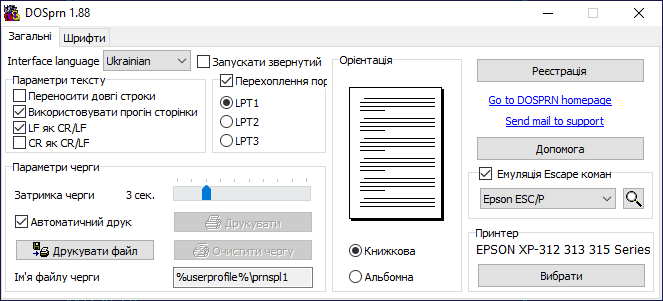
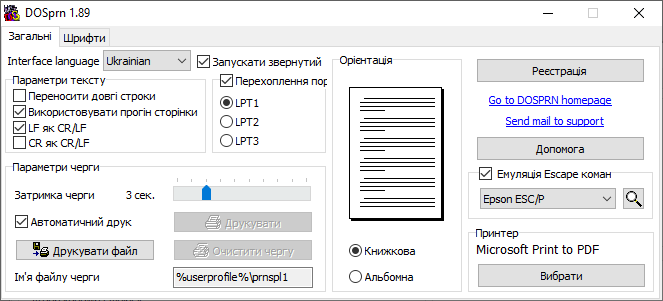
1.89

Changed region(s): [[0.0, 0.0, 1.0, 1.0]]

diff --git a/readme.htm b/readme.htm
@@ -1,5 +1,5 @@
 <!DOCTYPE HTML PUBLIC "-//W3C//DTD HTML 4.0 Transitional//EN">
-<HTML><HEAD><TITLE>DOSPRN 1.88 документація</TITLE>
+<HTML><HEAD><TITLE>DOSPRN 1.89 документація</TITLE>
 <META http-equiv=Content-Type content="text/html; charset=utf-8">
 <META http-equiv=Content-Language content=en-us>
 <META name=Keywords  content="DOS, printers, program, print, printer, USB, programs, LPT, DOS program, software, national, language, internanional" >
@@ -23,7 +23,7 @@
     <TD width="100%">      <table border="0" cellspacing="0" cellpadding="0">
         <tr>
           <td width="50"><IMG src="images/logo.gif" ALT="Print from DOS on printers under Windows98, WinXP, Windows2000" width="42" height="39"></td>
-          <td width="281"><font size="5"><b>DOSPRN 1.88</b></font></td>
+          <td width="281"><font size="5"><b>DOSPRN 1.89</b></font></td>
           <td width="194">      
       <table border="2" bgcolor="#C0C0C0" cellpadding="4" cellspacing="4">
         <tr>
@@ -63,7 +63,7 @@
       ознайомитися з роботою DOSPRN та спробувати її в роботі з вашими програмами для DOS на протязі випробувального періоду. По закінченні цьогу періоду
       ви маєте або зареєструвати вашу копію або видалити її з вашого комп'ютера за допомогою утиліти деінсталяції яка розміщена у головному меню Робочого столу у групі DOSPRN.</P>
       <H3 align=justify>Інсталяція</H3>
-      <P align=justify>Загрузіть та запустіть на виконання само-розпаковуючийся файл <I><a href="https://dosprn.com/DOSprn188.exe">DOSprn188.exe</a></I>. 
+      <P align=justify>Загрузіть та запустіть на виконання само-розпаковуючийся файл <I><a href="https://dosprn.com/DOSprn189.exe">DOSprn189.exe</a></I>. 
       Вам треба буде відповісти на кілька простих питань. Під час інсталяції DOSPRN копіює усі необхідні файли та створює ярлики на вашому комп'ютері.</P>
       <H3 align=justify>Запуск програми</H3>Ви можете стартувати DOSPRN за допомогою ярлика на Робочому Столі або з папки "DOSPRN" 
       у головному меню Windows. Також DOSPRN може стартувати автоматично разом в операційною системою з папки "Автозагрузка" (якщо ви обрали таку можливість під час інсталяції). 
@@ -115,10 +115,7 @@
         <TR>
           <TD width="33%">
             <H4>Перехоплення порту</H4></TD>
-          <TD width="67%">Ця опція доступна зараз <B>тільки у Win95/98/Me</B>. DOSPRN перехоплює усі дані 
-            які DOS-програма надсилає до порту та обробляє їх. Якщо ви маєте <A 
-            href="winnt.htm">WinNT/2000/XP</A>, DOSPRN буде використовувати резидентний драйвер 
-	    <a href="prn2file.htm"><i>prn2file.com</i></a> у dos-сесії.
+          <TD width="67%">DOSPRN перехоплює усі дані які DOS-програма надсилає до порту та обробляє їх.
             <HR>
           </TD></TR>
         <TR>
@@ -144,9 +141,9 @@
             <H4>Ім'я файлу черги</H4></TD>
           <TD width="67%">Ім'я файлу (або маска файлів) які містять тимчасові дані для друку.&nbsp;<br>
             <b><br>
-            Примітка: </b>якщо ви маєте <A href="winnt.htm">WinNT/2000/XP</A> та бажаєте змінити ім'я чи шлях до файлу, 
- 	    необхідно також змінити параметри резидентного драйверу DOS <I>prn2file.com</I> який перехоплює
- 	    дані з DOS-програм та записує їх у тимчасовий файл.            
+            Примітка: </b>якщо ви бажаєте змінити ім'я чи шлях до файлу, 
+ 	    необхідно попередньо відключити опцію автоматичного "Перехоплення порту" яка дозволяє DOSPRN самостійно перехоплювати
+ 	    дані з DOS-програм.
 	    <HR>
           </TD></TR>
         <TR>

diff --git a/news.htm b/news.htm
@@ -1,5 +1,5 @@
 <!DOCTYPE HTML PUBLIC "-//W3C//DTD HTML 4.0 Transitional//EN">
-<HTML><HEAD><TITLE>DOSPRN 1.88 секція новин</TITLE>
+<HTML><HEAD><TITLE>DOSPRN 1.89 секція новин</TITLE>
 <META http-equiv=Content-Language content=en-us>
 <META http-equiv=Content-Type content="text/html; charset=utf-8">
 <META name=Keywords  content="dos print news, dos printer driver, dos printer, dos usb driver, dos print command, DOS, printers, program, print, printer, USB, programs, LPT, DOS program, software, national, language, internanional" >
@@ -56,16 +56,22 @@
   <TR>
     <TD width="100%">
       <H3>What's new</H3>
+      <P><B>Version 1.89</B></P>
+      + додана можливість перехоплювати дані з LPTx під Windows 64bit<br>
+      + додана можливість перехоплювати звіти з нативних програм Windows які надіслані на LPTx<br>
+      + додана тісна інтеграція з DOSBOX-X, DOSBOX, vDos, vDosPlus<br>
+      + додана підтримка віртуальної машини NTVDMx64<br>
+      * виправлення помилок<br>
       <P><B>Version 1.88</B></P>
-      + added Rectangular Area Fill Graphics PCL sequences support<br>
-      * small bugs fixes<br>
+      + додана підримка емуляції Rectangular Area Fill Graphics PCL послідовностей<br>
+      * виправлення помилок<br>
       <P><B>Version 1.87</B></P>
-      + added the ability to create and include <a href="inline-qrcode.htm">QR-code</a> into DOS reports from the text file<br>
-      + added the ability to specify the title of the print job at runtime, this is useful for printing accounting systems<br>
-      + added the ability to specify the name of an output file at runtime, this is useful for silent printing into PDF (for example, with "Microsoft Print to PDF" printer)<br>
-      + new command line option <a href="command-line.htm">&quot;output&quot;</a><br>
-      * now it is possible to scale <a href="inline-graphics.htm">embedded graphics files</a><br>
-      * small bugs fixes<br>
+      + додана можливість створювати <a href="inline-qrcode.htm">QR-коди</a> з текстових файлів та додавати їх до звітів<br>
+      + додана можливість вказувати заголовок завдання під час друку, це може бути корисно для систем автоматичного обліку друку<br>
+      + додана можливість вказувати им'я вихідного файлу під час друку, це може бути корисно для зручного друку у PDF (наприклад, через "Microsoft Print to PDF")<br>
+      + нова опція командної строки <a href="command-line.htm">&quot;output&quot;</a><br>
+      * зараз стало можливим масштабувати <a href="inline-graphics.htm">вбудовані графічні файли</a><br>
+      * виправлення помилок<br>
       <P>
       <P><B>Version 1.86</B></P>
       <P>

diff --git a/faq.htm b/faq.htm
@@ -22,7 +22,7 @@
     <TD width="100%">      <table border="0" cellspacing="0" cellpadding="0">
         <tr>
           <td width="50"><IMG src="images/logo.gif" ALT="Print from DOS on printers under Windows98, WinXP, Windows2000" width="42" height="39"></td>
-          <td width="281"><font size="5"><b>DOSPRN 1.88</b></font></td>
+          <td width="281"><font size="5"><b>DOSPRN 1.89</b></font></td>
           <td width="194">      
       <table border="2" bgcolor="#C0C0C0" cellpadding="4" cellspacing="4">
         <tr>
@@ -80,11 +80,6 @@
           file&quot; option but reports from my DOS program are not captured .
           Why ?</a>
           </h4>
-        <li>
-          <h4><a href="#18">I tested DOSPRN trying to print out files with the &quot;copy filename prn&quot; DOS command. I have come to a conclusion
-          DOSPRN can't process simple DOS commands. </a><a href="#18">Any suggestions
-          please ?</a></h4>
-        </li>
       </ul>
           
         </li>
@@ -239,28 +234,6 @@
           option and set up the &quot;Job filename&quot; properties to match
           your report file names. Don't forget that temporary job file will be removed by DOSPRN
           after printing.
-          </p>
-        <li>
-          <p><a name="18"></a><b>I tested DOSPRN trying to print out files with
-          &quot;copy filename prn&quot; DOS command. I have come to the conclusion
-          that DOSPRN can't process simple DOS commands. Any suggestions please ?<br>
-          <br>
-          </b>I think you have Windows NT/2000/XP operating system. These OS do
-          not have pure DOS. DOS-box is not DOS and NT/2000/XP console commands
-          are not DOS commands.<br>
-          <br>
-          For example, NT/2000/XP use a "copy" command from their 32-bit kernel. Another
-          standard command for file printing (the <b>PRINT</b> command) is not a usual
-          DOS program. This is native Win32 console program (you can
-          find it in the SYSTEM32 directory, open it with any hexadecimal viewer and to<br>
-          be convinced).&nbsp;<br>
-          <br>
-          DOSPRN (namely the dos driver <i><b>PRN2FILE)</b></i> can't capture Win32 kernel output since it
-          can't redirect COPY and PRINT commands.<br>
-          <br>
-          If you want to print pure TXT files I recommend printing them with the
-          command <p><code>copy filename &quot;%USERPROFILE%\prnspl1&quot;</code></p>. In this case your file will get directly into
-          the DOSPRN spool buffer and will be processed immediately.
           </p>
       </ul>
           

diff --git a/index.htm b/index.htm
@@ -1,5 +1,5 @@
 <!DOCTYPE HTML PUBLIC "-//W3C//DTD HTML 4.0 Transitional//EN">
-<HTML><HEAD><TITLE>DOSPRN 1.88. Друкуємо з DOS програм на принтери зумісні з Windows</TITLE>
+<HTML><HEAD><TITLE>DOSPRN 1.89. Друкуємо з DOS програм на принтери зумісні з Windows</TITLE>
 <META http-equiv=Content-Type content="text/html; charset=utf-8">
 <META http-equiv=Content-Language content=en-us>
 <META name=Keywords  content="dos print, printer, printers, DOS, win, windows, win2k, windows2000, program, USB, programs, LPT, DOS program, software, national, language, internanional" >
@@ -22,7 +22,7 @@
       <table border="0" cellspacing="0" cellpadding="0">
         <tr>
           <td width="50"><IMG src="images/logo.gif" ALT="Print from DOS on printers under Windows98, WinXP, Windows2000" width="42" height="39"></td>
-          <td width="281"><font size="5"><b>DOSPRN 1.88</b></font></td>
+          <td width="281"><font size="5"><b>DOSPRN 1.89</b></font></td>
           <td width="194">      
       <table border="2" bgcolor="#C0C0C0" cellpadding="4" cellspacing="4">
         <tr>
@@ -59,7 +59,7 @@
       <P>DOSPRN також може бути корисний якщо DOS програма прациює на вашій <b>рідній мові</b> але ваш принтер 
       не підтримує друк на вашій мові у текстовому режимі.</P>
       <P>DOSPRN розповсюджується як shareware. Загрузіть його звідси та <I><B><A 
-      href="https://dosprn.com/DOSprn188.exe">Спробуйте ЗАРАЗ</A></B></I> 
+      href="https://dosprn.com/DOSprn189.exe">Спробуйте ЗАРАЗ</A></B></I> 
       </P></TD></TR>
   <TR>
     <TD align=middle width=550 height=26>

diff --git a/download.htm b/download.htm
@@ -1,5 +1,5 @@
 <!DOCTYPE HTML PUBLIC "-//W3C//DTD HTML 4.0 Transitional//EN">
-<HTML><HEAD><TITLE>DOSPRN 1.88 dowload now</TITLE>
+<HTML><HEAD><TITLE>DOSPRN 1.89 dowload now</TITLE>
 <META http-equiv=Content-Language content=en-us>
 <META http-equiv=Content-Type content="text/html; charset=windows-1252">
 <META name=Keywords  content="dos printer driver, dos print download, dos printer, dos usb driver, dos print command, DOS, printers, program, print, printer, USB, programs, LPT, DOS program, software, national, language, internanional" >
@@ -22,7 +22,7 @@
     <TD width="100%">      <table border="0" cellspacing="0" cellpadding="0">
         <tr>
           <td width="50"><IMG src="images/logo.gif" ALT="Print from DOS on printers under Windows98, WinXP, Windows2000" width="42" height="39"></td>
-          <td width="281"><font size="5"><b>DOSPRN 1.88</b></font></td>
+          <td width="281"><font size="5"><b>DOSPRN 1.89</b></font></td>
           <td width="194">      
       <table border="2" bgcolor="#C0C0C0" cellpadding="4" cellspacing="4">
         <tr>
@@ -61,8 +61,8 @@
       <p>We strongly recommend that you thoroughly review the <a href="readme.htm">DOSPRN manual</a>
       and <a href="faq.htm">our FAQ</a>.<br>
       <br>
-      <a href="https://dosprn.com/DOSprn188.exe">Click here for download the
-      self-extracting file <i>DOSprn188.exe (1.8 Mb)</i></a><br>
+      <a href="https://dosprn.com/DOSprn189.exe">Click here for download the
+      self-extracting file <i>DOSprn189.exe (1.8 Mb)</i></a><br>
       <br>
       DOSPRN will remind you about registration each time you print report from your DOS application. If you have
       any questions about

diff --git a/order.htm b/order.htm
@@ -1,5 +1,5 @@
 <!DOCTYPE HTML PUBLIC "-//W3C//DTD HTML 4.0 Transitional//EN">
-<HTML><HEAD><TITLE>Order DOSPRN 1.88</TITLE>
+<HTML><HEAD><TITLE>Order DOSPRN 1.89</TITLE>
 <META http-equiv=Content-Language content=en-us>
 <META http-equiv=Content-Type content="text/html; charset=windows-1252">
 <META name=Keywords content="DOS print order, DOS2usb purchase, DOS printers, program, print, printer, DOS USB, programs, LPT, DOS program, DOS software">
@@ -24,7 +24,7 @@
       <table border="0" cellspacing="0" cellpadding="0">
         <tr>
           <td width="50"><IMG src="images/logo.gif" ALT="Print from DOS on printers under Windows98, WinXP, Windows2000" width="42" height="39"></td>
-          <td width="281"><font size="5"><b>DOSPRN 1.88</b></font></td>
+          <td width="281"><font size="5"><b>DOSPRN 1.89</b></font></td>
           <td width="194">      
       <table border="2" bgcolor="#C0C0C0" cellpadding="4" cellspacing="4">
         <tr>
@@ -77,7 +77,7 @@ After expiry of the trial period, you&nbsp;should register this program.</P>
 
       <P>
       If your DOSPRN's trial period has been expired now you can download and install
-      a <a href="https://dosprn.com/DOSprn188.exe">special "vacation" build</a> of DOSPRN 1.88. The trial period will be 
+      a <a href="https://dosprn.com/DOSprn189.exe">special "vacation" build</a> of DOSPRN 1.89. The trial period will be 
       expanded up to August, 1.
       </P>
 -->

diff --git a/sequences.htm b/sequences.htm
@@ -1,5 +1,5 @@
 <!DOCTYPE HTML PUBLIC "-//W3C//DTD HTML 4.0 Transitional//EN">
-<HTML><HEAD><TITLE>DOSPRN 1.88 supported ESC sequences</TITLE>
+<HTML><HEAD><TITLE>DOSPRN 1.89 supported ESC sequences</TITLE>
 <META http-equiv=Content-Type content="text/html; charset=windows-1251">
 <META name=Keywords  content="dos printer driver, dos printer, dos usb driver, dos print command, DOS, printers, program, print, printer, USB, programs, LPT, DOS program, software, national, language, internanional" >
 <META name=Description  content="DOSPRN allow to use your old favorite DOS program with new printers independently of their types (yes, and USB also !)" >
@@ -22,7 +22,7 @@
     <TD width="100%">      <table border="0" cellspacing="0" cellpadding="0" width="630">
         <tr>
           <td width="50"><IMG src="images/logo.gif" ALT="Print from DOS on printers under Windows98, WinXP, Windows2000" width="42" height="39"></td>
-          <td width="345"><font size="5"><b>DOSPRN 1.88</b></font></td>
+          <td width="345"><font size="5"><b>DOSPRN 1.89</b></font></td>
           <td width="229">      
       <table border="2" bgcolor="#C0C0C0" cellpadding="4" cellspacing="4">
         <tr>

diff --git a/login.htm b/login.htm
@@ -1,5 +1,5 @@
 <!DOCTYPE HTML PUBLIC "-//W3C//DTD HTML 4.0 Transitional//EN">
-<HTML><HEAD><TITLE>DOSPRN 1.88 registered users login</TITLE>
+<HTML><HEAD><TITLE>DOSPRN 1.89 registered users login</TITLE>
 <META http-equiv=Content-Language content=en-us>
 <META http-equiv=Content-Type content="text/html; charset=windows-1252">
 <META name=Keywords  content="dos printer driver, dos printer, dos usb driver, dos print command, DOS, printers, program, print, printer, USB, programs, LPT, DOS program, software, national, language, internanional" >
@@ -22,7 +22,7 @@
     <TD width="100%">      <table border="0" cellspacing="0" cellpadding="0">
         <tr>
           <td width="50"><IMG src="images/logo.gif" ALT="Print from DOS on printers under Windows98, WinXP, Windows2000" width="42" height="39"></td>
-          <td width="281"><font size="5"><b>DOSPRN 1.88</b></font></td>
+          <td width="281"><font size="5"><b>DOSPRN 1.89</b></font></td>
           <td width="194">      
       <table border="2" bgcolor="#C0C0C0" cellpadding="4" cellspacing="4">
         <tr>

diff --git a/languages.htm b/languages.htm
@@ -5,7 +5,7 @@
 <meta name="Description" content="DOSPRN allow to use your old favorite DOS program with new printers independently of their types (yes, and USB also !)">
 <meta name="GENERATOR" content="Microsoft FrontPage 6.0">
 <meta name="ProgId" content="FrontPage.Editor.Document">
-<TITLE>DOSPRN 1.88 languages supported</TITLE>
+<TITLE>DOSPRN 1.89 languages supported</TITLE>
 <meta name=viewport content="width=device-width, initial-scale=1">
 
 <script type="text/javascript">
@@ -25,7 +25,7 @@
     <TD width="100%">      <table border="0" cellspacing="0" cellpadding="0">
         <tr>
           <td width="50"><IMG src="images/logo.gif" ALT="Print from DOS on printers under Windows98, WinXP, Windows2000" width="42" height="39"></td>
-          <td width="281"><font size="5"><b>DOSPRN 1.88</b></font></td>
+          <td width="281"><font size="5"><b>DOSPRN 1.89</b></font></td>
           <td width="194">      
       <table border="2" bgcolor="#C0C0C0" cellpadding="4" cellspacing="4">
         <tr>

diff --git a/codepages.htm b/codepages.htm
@@ -1,4 +1,4 @@
-<HTML><HEAD><TITLE>DOSPRN 1.88 codepages support</TITLE>
+<HTML><HEAD><TITLE>DOSPRN 1.89 codepages support</TITLE>
 <META http-equiv=Content-Type content="text/html; charset=windows-1251">
 <META name=Keywords content="dos printer driver, dos code, dos codepages, dos codepages, dos printer, dos usb driver, dos print command, DOS, printers, program, print, printer, USB, programs, LPT, DOS program, software, national, language, internanional">
 <META name=Description content="DOSPRN allow to use your old favorite DOS program with new printers independently of their types (yes, and USB also !)">
@@ -22,7 +22,7 @@
 
 <TR>
 <TD width=50><IMG height=39 alt="Print from DOS on printers under Windows98, WinXP, Windows2000" src="images/logo.gif" width=42></TD>
-<TD width=281><FONT size=5><B>DOSPRN 1.88</B></FONT></TD>
+<TD width=281><FONT size=5><B>DOSPRN 1.89</B></FONT></TD>
 <TD width=194>
 <TABLE cellSpacing=4 cellPadding=4 bgColor=#c0c0c0 border=2>
 
